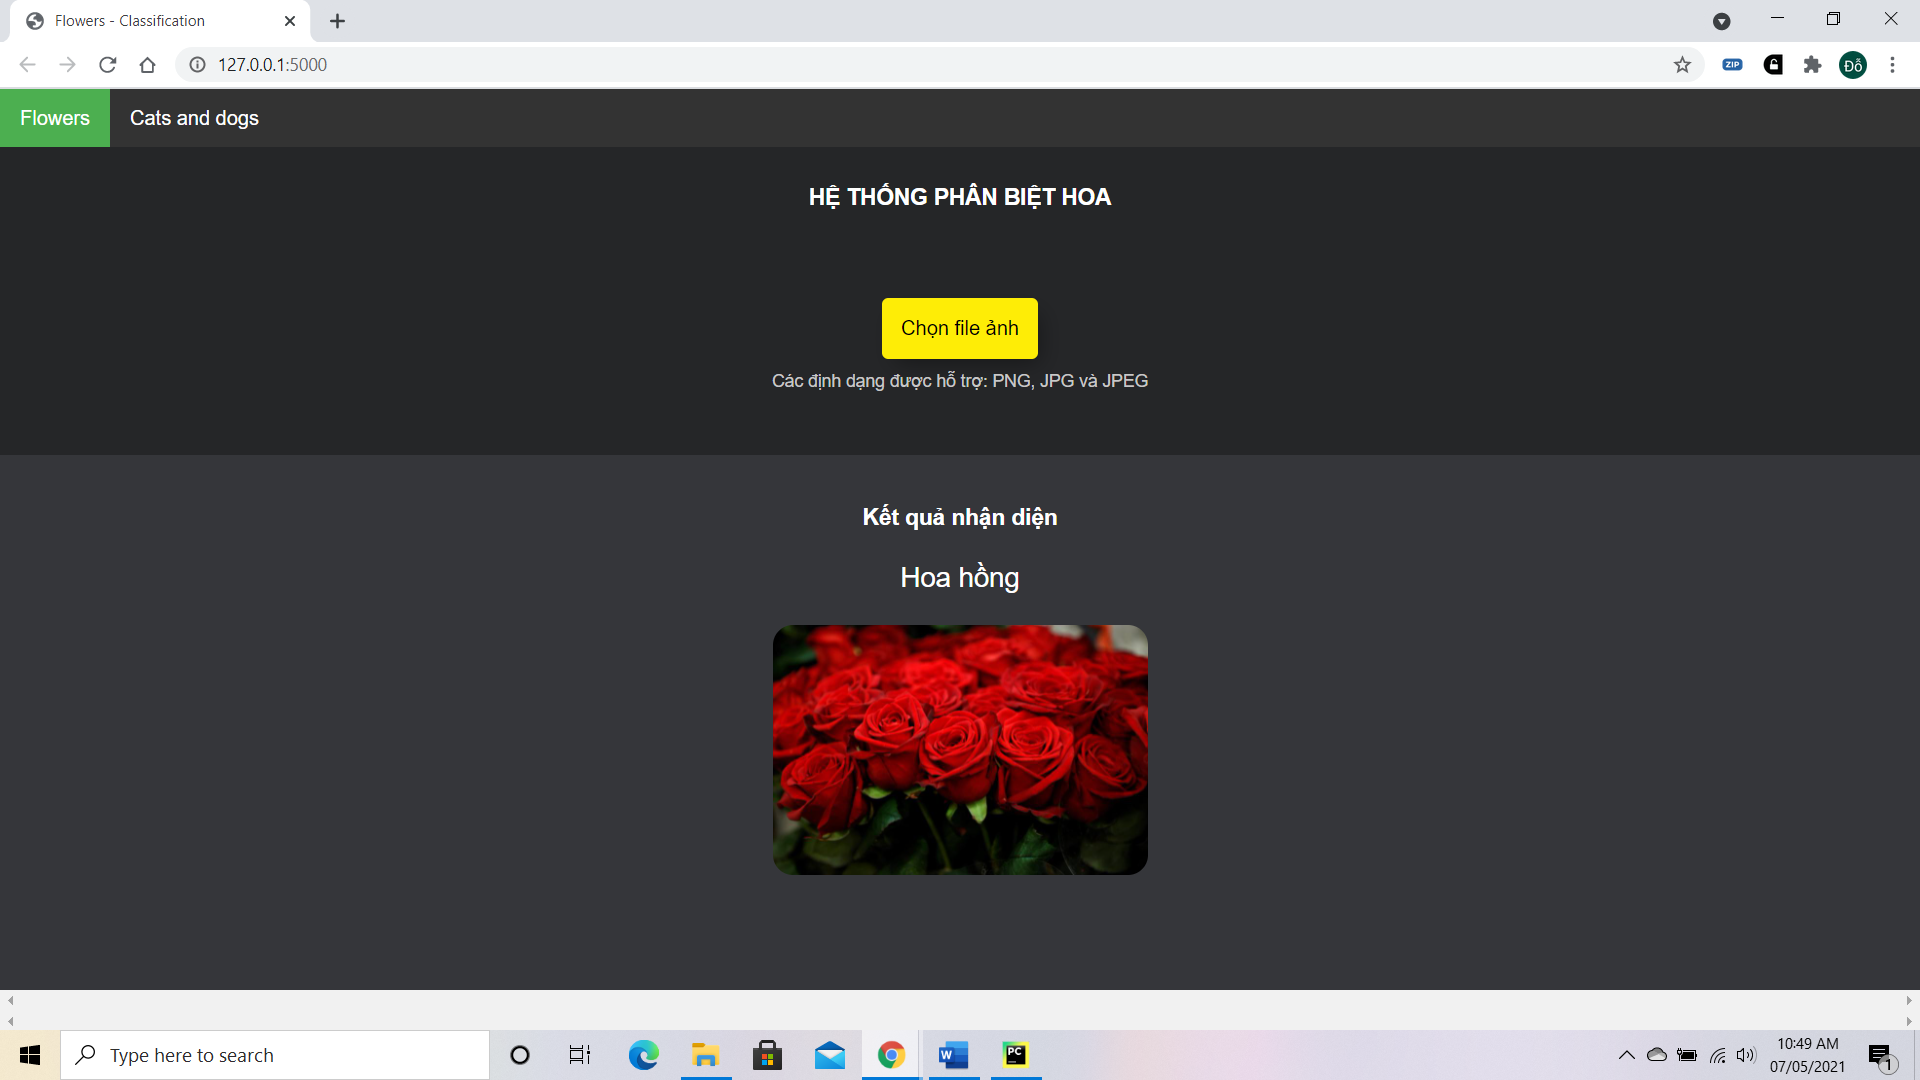
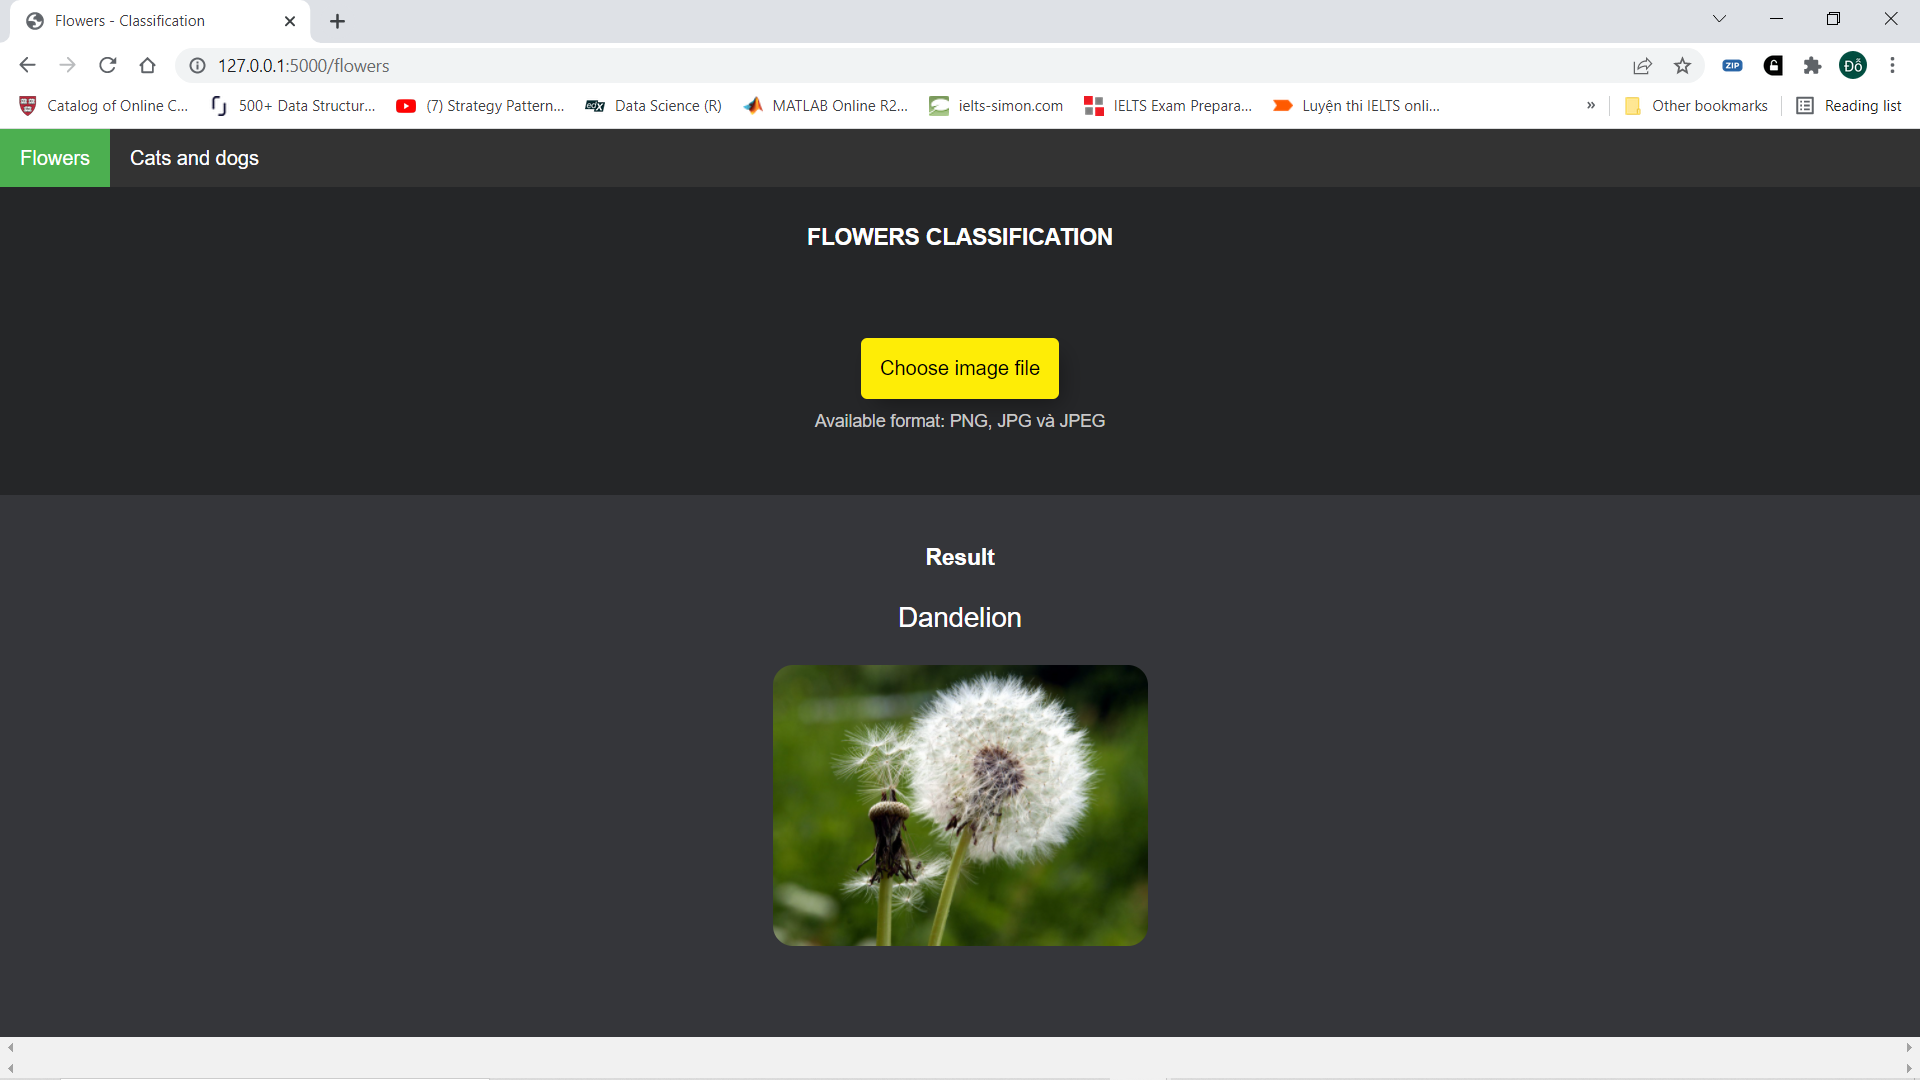
english version

diff --git a/app/templates/base.html b/app/templates/base.html
@@ -20,13 +20,13 @@
             <li><a class="{{ status2 }}" href="/cats_dogs"> Cats and dogs </a></li>
         </ul>
 
-        <div class='header'> HỆ THỐNG PHÂN BIỆT {{ header }} </div>
+        <div class='header'> {{ header }} CLASSIFICATION </div>
 
         <div class='content'>
             <div class='upload_part'>
-                <button class='upload_button' id="upload_button"> Chọn file ảnh </button>
+                <button class='upload_button' id="upload_button"> Choose image file </button>
                 <div class='upload_hint' id='upload_hint'>
-                    Các định dạng được hỗ trợ: PNG, JPG và JPEG
+                    Available format: PNG, JPG và JPEG
                 </div>
                 <form action="/" method="POST" enctype="multipart/form-data" id='form'>
                     <input type="file" name="file" id="fileinput" accept="image/*" style="display:none">
@@ -34,7 +34,7 @@
             </div>
 
             <div class='result_part'>
-                <div class='result_title'><b>Kết quả nhận diện</b></div>
+                <div class='result_title'><b>Result</b></div>
                 <div class='result_id' id="result_info">_</div>
                 <img style="max-width:300px; border-radius:1rem"
                      src="https://reactnativecode.com/wp-content/uploads/2018/02/Default_Image_Thumbnail.png"

diff --git a/app/templates/flowers.html b/app/templates/flowers.html
@@ -3,11 +3,11 @@
 {% block scripts %}
     <script type="text/javascript">
         const FLOWER_CLASS = {
-            0: 'Hoa cúc',
-            1: 'Bồ công anh',
-            2: 'Hoa hồng',
-            3: 'Hoa hướng dương',
-            4: 'Hoa tulip'
+            0: 'Daisy',
+            1: 'Dandelion',
+            2: 'Rose',
+            3: 'Sunflower',
+            4: 'Tulip'
         };
 
         // Load model

diff --git a/app/templates/cats_dogs.html b/app/templates/cats_dogs.html
@@ -3,8 +3,8 @@
 {% block scripts %}
     <script type="text/javascript">
         const CLASS = {
-            0: 'Mèo',
-            1: 'Chó',
+            0: 'Cat',
+            1: 'Dog',
         };
 
         // Load model

diff --git a/app/routes.py b/app/routes.py
@@ -5,12 +5,12 @@ from app import app
 @app.route('/', methods=['GET'])
 @app.route('/flowers', methods=['GET'])
 def login():
-    return render_template('flowers.html', title='Flowers', header='HOA', status1="active")
+    return render_template('flowers.html', title='Flowers', header='FLOWERS', status1="active")
 
 
 @app.route('/cats_dogs', methods=['GET'])
 def cats_dogs():
-    return render_template('cats_dogs.html', title='Cats vs dogs', header='CHÓ MÈO', status2="active")
+    return render_template('cats_dogs.html', title='Cat vs dog', header='CAT AND DOG', status2="active")
 
 
 
